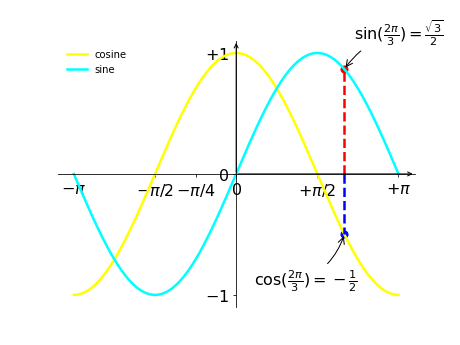
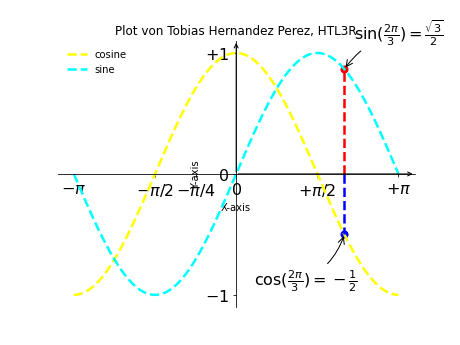
reworked statistik a bit

diff --git a/python/ue03_plot/statistik.py b/python/ue03_plot/statistik.py
@@ -5,7 +5,6 @@ from logging.handlers import RotatingFileHandler
 from subprocess import Popen, PIPE
 
 import matplotlib.pyplot as plt
-from dateutil import parser
 
 logger = logging.getLogger("statistik_logger")
 
@@ -19,11 +18,12 @@ def style_plot(commits_num: int):
 
     # Spacing
     plt.xlim(-2.5, 25 * 1.1)
+    plt.ylim(-0.5, 6.5)
 
     # Markierungen
     plt.xticks([0, 5, 10, 15, 20, 25])
-    plt.yticks([0, 1, 2, 3, 4, 5, 6, 7])
-    plt.yticks([0, 1, 2, 3, 4, 5, 6],
+    plt.yticks([1, 2, 3, 4, 5, 6, 0])
+    plt.yticks([1, 2, 3, 4, 5, 6, 0],
                ["mon", "tue", "wed", "thu", "fri", "sat", "sun"])
 
     # Achsen
@@ -44,10 +44,9 @@ def style_plot(commits_num: int):
 
 def create_git_scatter(folder: str):
     logger.debug(f"creating scatter of {folder}")
-    git_log = ["git", "-C", folder, "log", "--pretty=format:%h|%an|%ad|%s", "--date=format-local:%Y-%m-%d %H:%M:%S"]
+    git_log = ["git", "-C", folder, "log", "--pretty=format:%ad", "--date=format-local:%w %H"]
     process = Popen(git_log, stdout=PIPE, stderr=PIPE, text=True)
     out, err = process.communicate()
-
     log_entries = out.splitlines()
 
     commits_by_weekday_hour = {}
@@ -55,17 +54,9 @@ def create_git_scatter(folder: str):
 
     for entry in log_entries:
         logger.debug(f"reading entry: {entry}")
-        entry_components = entry.split('|')
-
-        commit_hash, author_name, commit_date_time, commit_message = entry_components
-
-        parsed_date = parser.parse(commit_date_time)
-        weekday = parsed_date.weekday()
-        hour = parsed_date.hour
-
-        key = (weekday, hour)
+        weekday, hour = entry.split()
+        key = (int(weekday), int(hour))
         commits_by_weekday_hour[key] = commits_by_weekday_hour.get(key, 0) + 10
-
         commits_num += 1
 
     weekdays, hours = zip(*commits_by_weekday_hour.keys())
@@ -73,6 +64,7 @@ def create_git_scatter(folder: str):
 
     plt.scatter(hours, weekdays, s=counts, c='blue', alpha=0.5)
     style_plot(commits_num)
+    # plt.savefig("statistik_hernandezperez.png", dpi=72)
     plt.show()
 
 

diff --git a/python/ue03_plot/plot1.py b/python/ue03_plot/plot1.py
@@ -12,8 +12,8 @@ y_sin = np.sin(x)
 y_cos = np.cos(x)
 
 # Plot the sine wave
-plt.plot(x, y_sin)
-plt.plot(x, y_cos)
+# plt.plot(x, y_sin)
+# plt.plot(x, y_cos)
 
 # Set labels and title
 plt.xlabel('X-axis')
@@ -35,8 +35,8 @@ plt.yticks([-1, 0, +1],
            [r'$-1$', r'$0$', r'$+1$'])
 
 # Legende
-plt.plot(x, y_cos, color="yellow", linewidth=2.5, linestyle="-", label="cosine")
-plt.plot(x, y_sin, color="cyan", linewidth=2.5, linestyle="-", label="sine")
+plt.plot(x, y_cos, color="yellow", linewidth=2.5, linestyle="--", label="cosine")
+plt.plot(x, y_sin, color="cyan", linewidth=2.5, linestyle="--", label="sine")
 plt.legend(loc='upper left', frameon=False)
 
 # Achsen

diff --git a/java/src/u04_dijkstra/Graph.java b/java/src/u04_dijkstra/Graph.java
@@ -16,12 +16,12 @@ public class Graph {
      * Sortierung: distance + Name der Node (zwei verschiedene Implentierungs-
      * Varianten möglich: in Node oder als Comperator)
      */
-    private PriorityQueue<Node> pq;
+    private final PriorityQueue<Node> pq;
 
     /**
      * Liste mit allen Knoten des Graphen
      */
-    private List<Node> nodes;
+    private final List<Node> nodes;
 
     public Graph() {
         this.pq = new PriorityQueue<>();

diff --git a/java/src/u04_dijkstra/Node.java b/java/src/u04_dijkstra/Node.java
@@ -96,7 +96,6 @@ public class Node implements Comparable<Node>{
 
     @Override
     public int compareTo(Node n) {
-        // todo auch nach namen sortieren?
         return Integer.compare(this.distance, n.distance);
     }
 }
